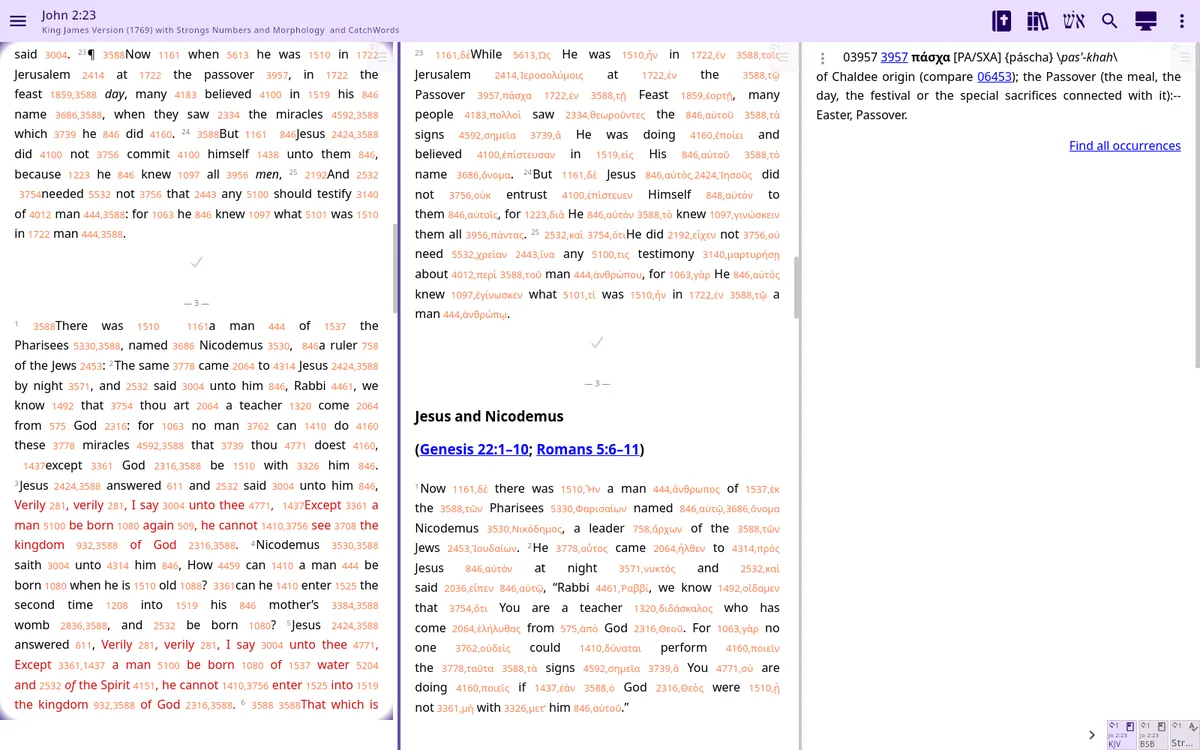
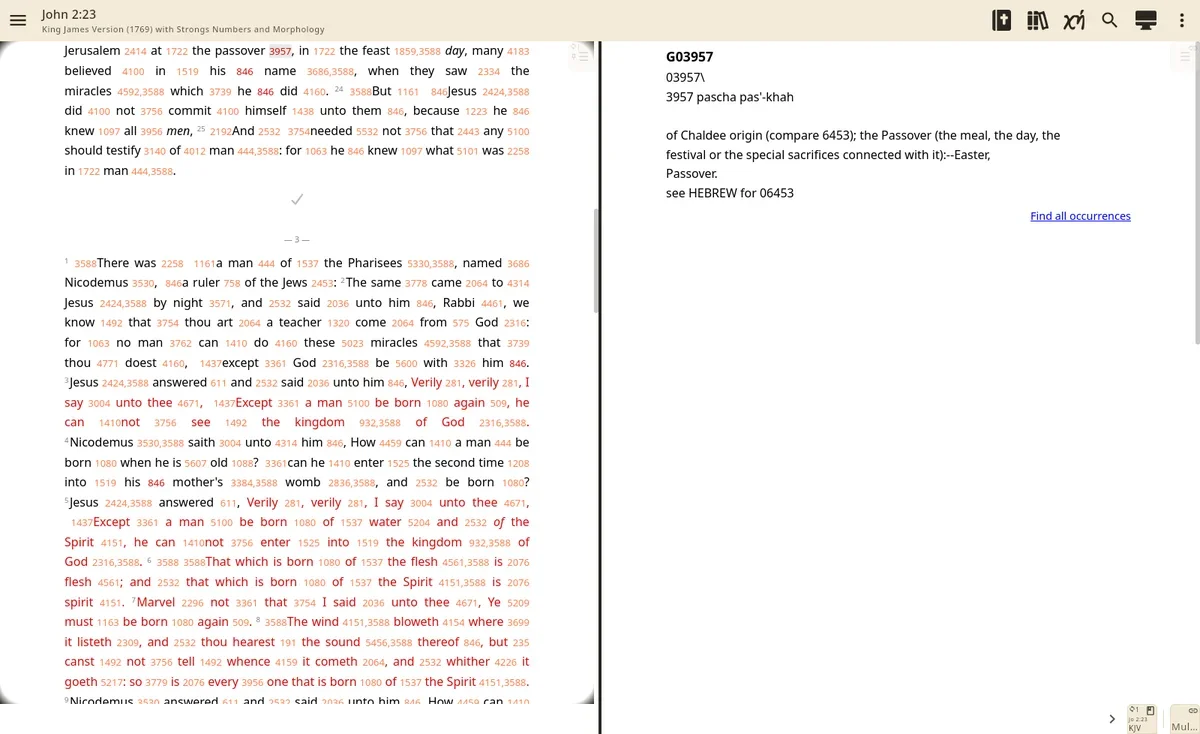
Docs: Ink-look desktop-linux screenshot (beta-1277), Windows install test follows the Store/MSI wording (Claude Sonnet 5.5)

diff --git a/website/tests/test_multiplatform_docs.py b/website/tests/test_multiplatform_docs.py
@@ -40,8 +40,10 @@ def test_getting_started_has_an_install_section_per_platform(built_docs):
 def test_getting_started_states_the_install_facts(built_docs):
     html = _page(built_docs, "getting_started")
     for word in ("iOS 16", "Apple Silicon", "releases/latest", ".msi", ".deb",
-                 "AppImage", "chmod +x", "SmartScreen"):
+                 "AppImage", "chmod +x", "Microsoft Store", "signed"):
         assert word in html, word
+    for stale in ("SmartScreen", "Run anyway"):
+        assert stale not in html, stale
     assert "Waydroid" not in html
 
 
